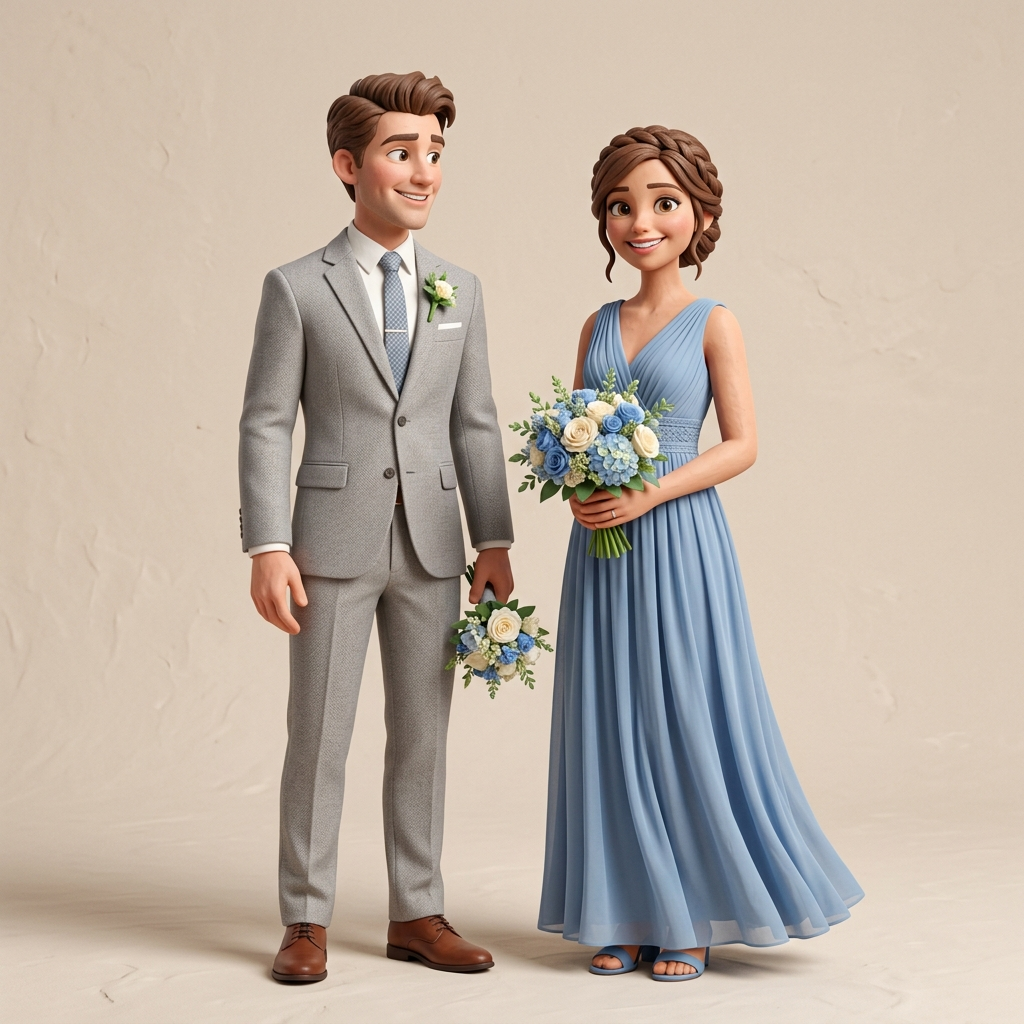
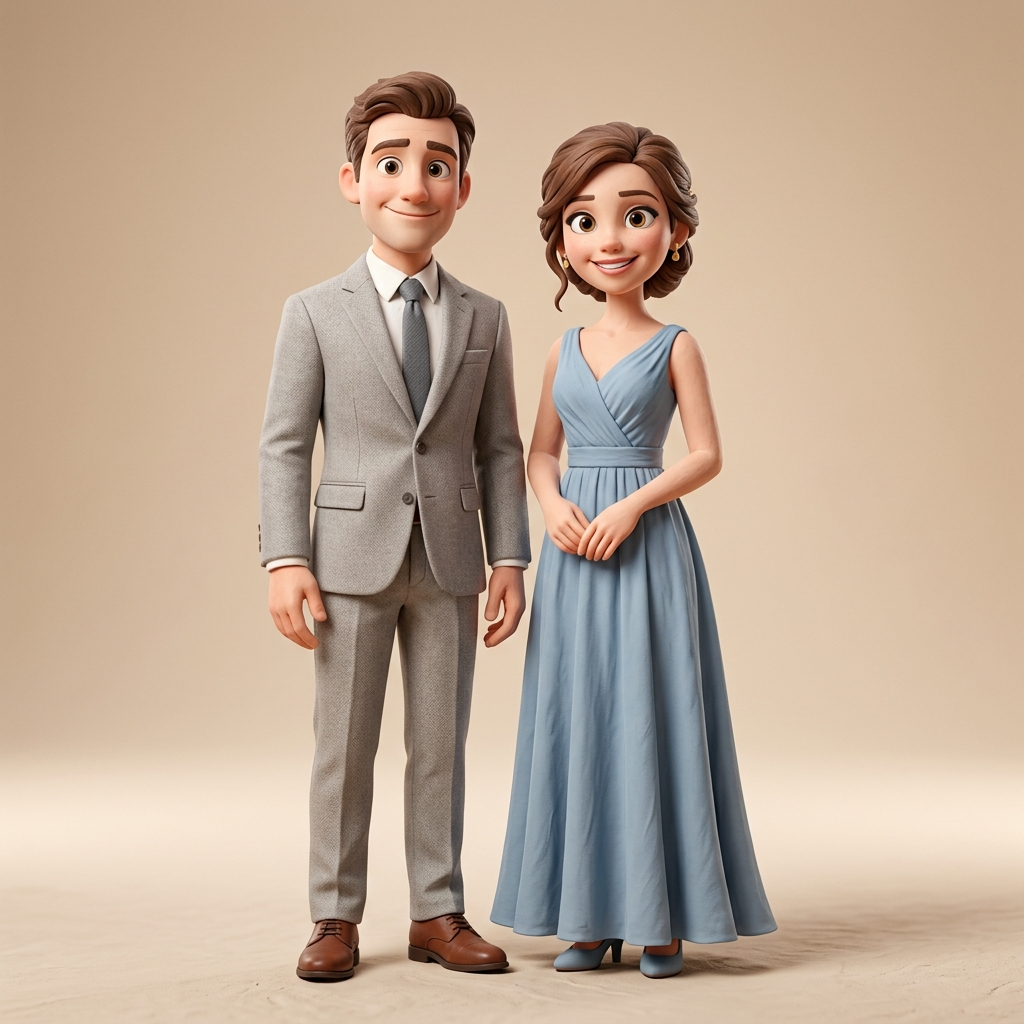
feat: remove campos de tamanhos no form de padrinhos e adiciona animacao de flutuar na imagem 3D

diff --git a/padrinhos.html b/padrinhos.html
@@ -94,6 +94,15 @@
       .padrinhos-groups { grid-template-columns: 1fr; }
       .padrinho-form-container { padding: 1.5rem; }
     }
+
+    @keyframes float {
+      0% { transform: translateY(0px); }
+      50% { transform: translateY(-12px); }
+      100% { transform: translateY(0px); }
+    }
+    .floating-illustration {
+      animation: float 4s ease-in-out infinite;
+    }
   </style>
 </head>
 <body>
@@ -158,7 +167,7 @@
         
         <!-- Imagem 3D dos padrinhos -->
         <div style="margin: 2rem auto; max-width: 320px; padding: 10px;">
-          <img src="./assets/images/padrinhos_3d_paleta.jpg" alt="Paleta Padrinhos" style="width: 100%; border-radius: 24px; box-shadow: var(--shadow-xl); border: 6px solid white;" />
+          <img src="./assets/images/padrinhos_3d_paleta.jpg" alt="Paleta Padrinhos" class="floating-illustration" style="width: 100%; border-radius: 24px; box-shadow: var(--shadow-xl); border: 6px solid white;" />
         </div>
 
         <div style="display: flex; justify-content: center; gap: 2rem; flex-wrap: wrap;">
@@ -197,32 +206,7 @@
                 </div>
               </div>
 
-              <div class="form-input-row">
-                <div class="form-group">
-                  <label class="form-label" for="pad-wear-size">Tamanho do Terno ou Vestido *</label>
-                  <select class="form-input" id="pad-wear-size" required>
-                    <option value="" disabled selected>Selecione seu tamanho</option>
-                    <option value="PP">PP</option>
-                    <option value="P">P</option>
-                    <option value="M">M</option>
-                    <option value="G">G</option>
-                    <option value="GG">GG</option>
-                    <option value="XG">XG</option>
-                    <option value="Sob Medida">Sob Medida / Alugado fora</option>
-                  </select>
-                </div>
-                <div class="form-group">
-                  <label class="form-label" for="pad-shoe-size">Número do Calçado *</label>
-                  <select class="form-input" id="pad-shoe-size" required>
-                    <option value="" disabled selected>Selecione o número</option>
-                    <script>
-                      for (let i = 33; i <= 46; i++) {
-                        document.write(`<option value="${i}">${i}</option>`);
-                      }
-                    </script>
-                  </select>
-                </div>
-              </div>
+              
 
               <div class="form-input-row">
                 <div class="form-group">
@@ -251,7 +235,7 @@
             <span style="font-size: 4rem; display: block; margin-bottom: 1rem; animation: scaleIn 0.5s ease;">🥂</span>
             <h3 style="font-family: var(--font-serif); font-size: 1.75rem; color: var(--color-gold-dark); margin-bottom: 0.5rem;">Informações Salvas!</h3>
             <p style="color: var(--text-secondary); line-height: 1.7; margin-bottom: 2rem;">
-              Muito obrigado! Suas informações de tamanho de roupa, calçado e restrições foram salvas com sucesso. 
+              Muito obrigado! Suas informações e restrições alimentares foram salvas com sucesso. 
               Ficamos muito felizes em ter você ao nosso lado como padrinho/madrinha! <svg xmlns="http://www.w3.org/2000/svg" width="20" height="20" viewBox="0 0 24 24" fill="currentColor" stroke="currentColor" stroke-width="2" stroke-linecap="round" stroke-linejoin="round" style="display:inline-block;vertical-align:middle;margin:0 3px;color:#e85d75;"><path d="M20.84 4.61a5.5 5.5 0 0 0-7.78 0L12 5.67l-1.06-1.06a5.5 5.5 0 0 0-7.78 7.78l1.06 1.06L12 21.23l7.78-7.78 1.06-1.06a5.5 5.5 0 0 0 0-7.78z"/></svg>️
             </p>
             <a href="index.html" class="btn btn-outline"><svg xmlns="http://www.w3.org/2000/svg" width="16" height="16" viewBox="0 0 24 24" fill="none" stroke="currentColor" stroke-width="2" stroke-linecap="round" stroke-linejoin="round" style="display:inline-block;vertical-align:middle;margin-right:4px;"><path d="m3 9 9-7 9 7v11a2 2 0 0 1-2 2H5a2 2 0 0 1-2-2z"/><polyline points="9 22 9 12 15 12 15 22"/></svg> Voltar ao Início</a>
@@ -315,8 +299,7 @@
         const data = {
           fullName: document.getElementById('pad-name').value.trim(),
           phone: document.getElementById('pad-phone').value.trim(),
-          wearSize: document.getElementById('pad-wear-size').value,
-          shoeSize: document.getElementById('pad-shoe-size').value,
+          
           foodRestrictions: document.getElementById('pad-food').value.trim() || 'Nenhuma',
           companion: document.getElementById('pad-companion').value.trim() || 'Nenhum',
           message: document.getElementById('pad-message').value.trim() || '',
@@ -334,8 +317,8 @@
           const noivosPhone = '5538991621135';
           let waText = `Olá Laoanny e Gabriel! <svg xmlns="http://www.w3.org/2000/svg" width="18" height="18" viewBox="0 0 24 24" fill="none" stroke="currentColor" stroke-width="2" stroke-linecap="round" stroke-linejoin="round" style="display:inline-block;vertical-align:middle;margin-right:6px;"><path d="M3 9l9-7 9 7v11a2 2 0 0 1-2 2H5a2 2 0 0 1-2-2z"/><polyline points="9 22 9 12 15 12 15 22"/><line x1="12" y1="2" x2="12" y2="5"/></svg>\n\nConfirmei meus dados de *Padrinho/Madrinha* pelo site!\n\n`;
           waText += `<svg xmlns="http://www.w3.org/2000/svg" width="22" height="22" viewBox="0 0 24 24" fill="none" stroke="currentColor" stroke-width="2" stroke-linecap="round" stroke-linejoin="round" style="display:block;margin:0 auto .3rem;"><circle cx="12" cy="8" r="4"/><path d="M6 20v-2a6 6 0 0 1 12 0v2"/></svg> *Nome:* ${data.fullName}\n`;
-          waText += `👕 *Tamanho roupa:* ${data.wearSize}\n`;
-          waText += `👞 *Número calçado:* ${data.shoeSize}\n`;
+          
+          
           waText += `🍏 *Restrição alimentar:* ${data.foodRestrictions}\n`;
           waText += `<svg xmlns="http://www.w3.org/2000/svg" width="16" height="16" viewBox="0 0 24 24" fill="none" stroke="currentColor" stroke-width="2" stroke-linecap="round" stroke-linejoin="round" style="display:inline-block;vertical-align:middle;margin-right:5px;"><path d="M17 21v-2a4 4 0 0 0-4-4H5a4 4 0 0 0-4 4v2"/><circle cx="9" cy="7" r="4"/><path d="M23 21v-2a4 4 0 0 0-3-3.87"/><path d="M16 3.13a4 4 0 0 1 0 7.75"/></svg> *Acompanhante:* ${data.companion}`;
           if (data.message) {